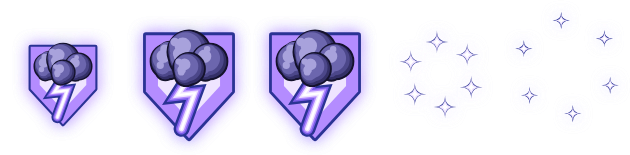
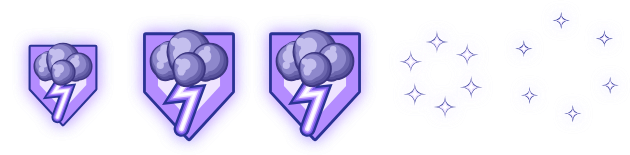
Shinobi ink and Stormcaller clouds: indigo and violet instead of near-black
The Shinobi's ink (hits, cuts, aura, fox, pillar, ring, brush stroke, her ink clones and
Thousand Cuts' darkening) is deep indigo instead of black, and the Stormcaller's storm
clouds are a soft violet with no near-black underside.

Changed region(s): [[0.4222, 0.1806, 0.573, 0.5677], [0.2111, 0.1806, 0.3619, 0.5677], [0.0302, 0.2581, 0.1508, 0.5677]]

diff --git a/src/render/fx-sheets.js b/src/render/fx-sheets.js
@@ -88,7 +88,7 @@ export const FX_SHEETS = {
   celstormhit: { w: 154, h: 144, n: 6, fps: 26, px: 77, py: 74, d: 3, loop: false },
   celstormspark: { w: 137, h: 97, n: 4, fps: 24, px: 24, py: 48, d: 3, loop: false },
   celstormpierce: { w: 207, h: 90, n: 6, fps: 26, px: 76, py: 45, d: 3, loop: false },
-  celstormcloud: { w: 272, h: 206, n: 8, fps: 8, px: 134, py: 93, d: 3, loop: true },
+  celstormcloud: { w: 273, h: 207, n: 8, fps: 8, px: 135, py: 94, d: 3, loop: true },
   celgaleblast: { w: 273, h: 210, n: 7, fps: 20, px: 141, py: 88, d: 3, loop: false },
   celthunderblast: { w: 231, h: 189, n: 7, fps: 22, px: 120, py: 95, d: 3, loop: false },
   celembwind: { w: 126, h: 152, n: 5, fps: 12, px: 63, py: 81, d: 3, loop: false },
@@ -133,20 +133,20 @@ export const FX_SHEETS = {
   celcomet: { w: 107, h: 269, n: 4, fps: 14, px: 53, py: 240, d: 3, loop: true },
   celhealbloom: { w: 191, h: 256, n: 7, fps: 18, px: 96, py: 218, d: 3, loop: false },
   cellightwall: { w: 104, h: 242, n: 6, fps: 14, px: 52, py: 225, d: 3, loop: true },
-  celslashink: { w: 246, h: 157, n: 8, fps: 30, px: 108, py: 114, d: 3, loop: false, r: 93.75, mid: -1.571, turn: 1 },
-  celinkhit: { w: 166, h: 155, n: 5, fps: 26, px: 80, py: 77, d: 3, loop: false },
+  celslashink: { w: 246, h: 165, n: 8, fps: 30, px: 108, py: 122, d: 3, loop: false, r: 93.75, mid: -1.571, turn: 1 },
+  celinkhit: { w: 177, h: 174, n: 5, fps: 26, px: 80, py: 84, d: 3, loop: false },
   celsmokebomb: { w: 245, h: 153, n: 8, fps: 18, px: 129, py: 128, d: 3, loop: false },
   celseal: { w: 211, h: 215, n: 7, fps: 14, px: 106, py: 106, d: 3, loop: false },
-  celinkfox: { w: 378, h: 178, n: 7, fps: 14, px: 177, py: 179, d: 3, loop: false },
+  celinkfox: { w: 404, h: 204, n: 7, fps: 14, px: 190, py: 192, d: 3, loop: false },
   celfoxfire: { w: 78, h: 153, n: 8, fps: 16, px: 40, py: 123, d: 3, loop: true },
   celfoxtrail: { w: 182, h: 60, n: 4, fps: 18, px: 156, py: 29, d: 3, loop: true },
   celfoxhit: { w: 172, h: 123, n: 7, fps: 22, px: 93, py: 83, d: 3, loop: false },
   celfoxtail: { w: 136, h: 197, n: 8, fps: 12, px: 111, py: 173, d: 3, loop: true },
   celflamefox: { w: 404, h: 200, n: 8, fps: 14, px: 190, py: 190, d: 3, loop: false },
-  celpillarink: { w: 97, h: 315, n: 8, fps: 20, px: 48, py: 289, d: 3, loop: false },
-  celringink: { w: 262, h: 261, n: 6, fps: 24, px: 131, py: 131, d: 3, loop: false },
+  celpillarink: { w: 97, h: 322, n: 8, fps: 20, px: 48, py: 295, d: 3, loop: false },
+  celringink: { w: 264, h: 264, n: 6, fps: 24, px: 132, py: 132, d: 3, loop: false },
   celembink: { w: 126, h: 126, n: 4, fps: 12, px: 63, py: 63, d: 3, loop: false },
-  celinkaura: { w: 115, h: 175, n: 8, fps: 10, px: 62, py: 167, d: 3, loop: true },
+  celinkaura: { w: 132, h: 183, n: 8, fps: 10, px: 72, py: 167, d: 3, loop: true },
   cellog: { w: 96, h: 98, n: 6, fps: 14, px: 45, py: 68, d: 3, loop: false },
   celpillarfox: { w: 84, h: 327, n: 8, fps: 20, px: 39, py: 298, d: 3, loop: false },
   celringfox: { w: 262, h: 262, n: 6, fps: 24, px: 130, py: 129, d: 3, loop: false },
@@ -174,10 +174,10 @@ export const FX_SHEETS = {
   celspitsplat: { w: 156, h: 157, n: 8, fps: 20, px: 71, py: 67, d: 3, loop: false },
   celringspiritbig: { of: 'celringspirit', k: 2.6 },
   cellanternbig: { of: 'cellantern', k: 1.5 },
-  celinkbrush: { w: 311, h: 77, n: 8, fps: 22, px: 155, py: 30, d: 3, loop: false },
+  celinkbrush: { w: 313, h: 86, n: 8, fps: 22, px: 155, py: 37, d: 3, loop: false },
   celleafwisp: { w: 92, h: 91, n: 8, fps: 14, px: 46, py: 45, d: 3, loop: true },
   celleapshadow: { w: 256, h: 155, n: 7, fps: 20, px: 206, py: 78, d: 3, loop: false },
-  celleapink: { w: 253, h: 148, n: 7, fps: 20, px: 206, py: 73, d: 3, loop: false },
+  celleapink: { w: 253, h: 151, n: 7, fps: 20, px: 206, py: 75, d: 3, loop: false },
   celleapfox: { w: 257, h: 152, n: 7, fps: 20, px: 206, py: 76, d: 3, loop: false },
   celleaphawk: { w: 258, h: 153, n: 7, fps: 20, px: 206, py: 76, d: 3, loop: false },
   celleapwind: { w: 253, h: 153, n: 7, fps: 20, px: 206, py: 76, d: 3, loop: false },

diff --git a/tools/fx-art.js b/tools/fx-art.js
@@ -1895,7 +1895,8 @@
   };
   const rgb = (h) => [1, 3, 5].map((k) => parseInt(h.slice(k, k + 2), 16));
   const mixc = (a, b, t) => a.map((v, k) => v + (b[k] - v) * t);
-  const CLOUD = { under: rgb('#1c183c'), mid: rgb('#46417c'), top: rgb('#a29ed6'), lit: rgb('#f4ecff') };
+  // A soft violet storm cloud (no near-black underside).
+  const CLOUD = { under: rgb('#4a4486'), mid: rgb('#7670b8'), top: rgb('#c2bcee'), lit: rgb('#faf4ff') };
   // Paints a cloud over (x0, y0, w, h) from `field(x, y)` (about 1 deep inside, 0 at its edge, below
   // 0 outside), churned by `turn` (radians, round a loop); `flash` is [x, y, r, strength] of
   // lightning lighting it from inside.
@@ -2026,7 +2027,7 @@
     for (const s of [-1, 1]) fill(ctx, [[s * 6, -2], [s * 16, -6], [s * 14, 2]], pal[3]);
   });
   // An emblem's thundercloud colours (a badge keeps outlined puffs; the sky's clouds are soft).
-  const THUNDERCLOUD = ['#a8a2dc', '#6c66ae', '#4c478a', '#332f66', '#14122c'];
+  const THUNDERCLOUD = ['#c4bfee', '#8e88cc', '#6c66ae', '#56509a', '#3c3680'];
   // The Stormcaller's emblem: a bolt of lightning striking out of a thundercloud, on a badge of
   // her violet.
   E.embstorm = emblem(PAL.storm, (ctx, pal) => {
@@ -3722,7 +3723,8 @@
   // finisher a giant fox painted in ink in one sweep of the brush (Okami's sumi-e brush; see
   // research/fx.md). The Kitsune is fox fire: blue flame with a white core and gold sparks, a
   // flame tail for each tail of her gauge, and a giant fox of blue fire with nine tails.
-  const INKR = ramp([[0, '#07050b'], [0.45, '#241c2c'], [0.8, '#4a3e52'], [1, '#7a6a80']]);
+  // Ink: deep indigo, never black (the player asked for nothing near-black in the effects).
+  const INKR = ramp([[0, '#2a2468'], [0.45, '#463c98'], [0.8, '#7268c4'], [1, '#aaa2e4']]);
   const SEAL = ['#ffffff', '#ffd6c8', '#ff6a4e', '#c81e28'];
   const FIRE = ['#ffffff', '#d8f6ff', '#5cb4ff', '#1e4ad6'];
   const FOXR = ramp([[0, '#0a1670'], [0.25, '#1838c8'], [0.5, '#2f7cff'], [0.72, '#66c4ff'], [0.9, '#d4f4ff'], [1, '#ffffff']]);
@@ -4762,7 +4764,7 @@
     };
   }
   {
-    const INK5 = ['#ffffff', '#e8e4ee', '#7a6a80', '#2a2230', '#0e0a12'];
+    const INK5 = ['#ffffff', '#e8e4f6', '#7268c4', '#3c3488', '#2a2468'];
     const SEAL5 = ['#ffffff', '#ffd6c8', '#ff6a4e', '#c81e28', '#7a0a1a'];
     const FOX5 = ['#ffffff', '#d8f6ff', '#5cb4ff', '#1e4ad6', '#1a2a8a'];
     const GOLD5 = ['#ffffff', '#fff3c4', '#ffd36a', '#e09a2a', '#9a5a1a'];

diff --git a/src/render/scene.js b/src/render/scene.js
@@ -463,7 +463,7 @@ function drawPhantom(ctx, world, look, gear, x, y, state) {
       const cx = x + state.facing * side * (live ? 14 : 20);
       const pose = live && world.now >= ph.since + k * 0.08 ? { pose: ph.kind, progress: Math.min(1, (world.now - ph.since - k * 0.08) / ph.dur), dur: ph.dur, from: null, blend: 1 } : {};
       fxSprite(ctx, 'celinkaura', cx, y + 4, { t: t * 0.8 + k, scale: 0.36, alpha: 0.7 * state.alpha });
-      drawTinted(ctx, cx, y, '#14101a', 0.86, (c) => drawHero(c, look, gear, cx, y, { ...state, ...pose, job: null, alpha: state.alpha * 0.62 }));
+      drawTinted(ctx, cx, y, '#2a2468', 0.86, (c) => drawHero(c, look, gear, cx, y, { ...state, ...pose, job: null, alpha: state.alpha * 0.62 }));
     }
     return;
   }

diff --git a/src/render/thief-fx.js b/src/render/thief-fx.js
@@ -195,7 +195,7 @@ export function drawThiefFx(ctx, f, x, y, p, cam, time) {
       const a = Math.min(1, p * 5) * (p > 0.85 ? (1 - p) / 0.15 : 1);
       ctx.save();
       ctx.globalAlpha = 0.42 * a;
-      ctx.fillStyle = '#14101a';
+      ctx.fillStyle = '#1c1240';
       wash(ctx);
       ctx.restore();
       fxSprite(ctx, 'celsmokebomb', x, y + 6, { p: Math.min(1, p * 2), scale: 0.9 });
